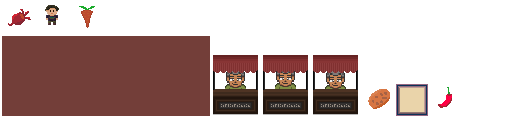
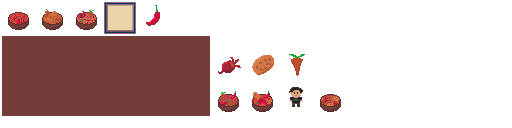
Soup images added

Changed region(s): [[0.4062, 0.4062, 0.9062, 0.9062], [0.0, 0.0, 0.3125, 0.2812]]

diff --git a/core/src/main/java/com/myname/game/gameScreen/GUI/SoupSlot.java b/core/src/main/java/com/myname/game/gameScreen/GUI/SoupSlot.java
@@ -2,6 +2,7 @@ package com.myname.game.gameScreen.GUI;
 
 import com.badlogic.gdx.graphics.Color;
 import com.badlogic.gdx.graphics.g2d.BitmapFont;
+import com.badlogic.gdx.graphics.g2d.TextureRegion;
 import com.badlogic.gdx.scenes.scene2d.ui.*;
 import com.badlogic.gdx.scenes.scene2d.utils.TextureRegionDrawable;
 import com.myname.game.gameScreen.GUI.inventory.Item;
@@ -58,6 +59,10 @@ public class SoupSlot extends Button {
             this.item = item;
             itemImage.setDrawable(new TextureRegionDrawable(item.getIcon()));
         }
+    }
+
+    public void setItemImage(TextureRegion itemImage) {
+        this.itemImage.setDrawable(new TextureRegionDrawable(itemImage));
     }
 
     public void setLabel()

diff --git a/core/src/main/java/com/myname/game/gameScreen/GUI/soupScreen/SoupScreen.java b/core/src/main/java/com/myname/game/gameScreen/GUI/soupScreen/SoupScreen.java
@@ -156,6 +156,14 @@ public class SoupScreen implements GenericEventListener {
 
     private void setSlots()
     {
+
+        slotArray.get(0).setItemImage(textureAtlas.findRegion("beetCarr"));
+        slotArray.get(1).setItemImage(textureAtlas.findRegion("beetpepp"));
+        slotArray.get(2).setItemImage(textureAtlas.findRegion("beetPotato"));
+        slotArray.get(3).setItemImage(textureAtlas.findRegion("carrPepp"));
+        slotArray.get(4).setItemImage(textureAtlas.findRegion("carrPotato"));
+        slotArray.get(5).setItemImage(textureAtlas.findRegion("peppPotato"));
+
         int i = 0;
         for(SoupSlot slot : slotArray)
         {
